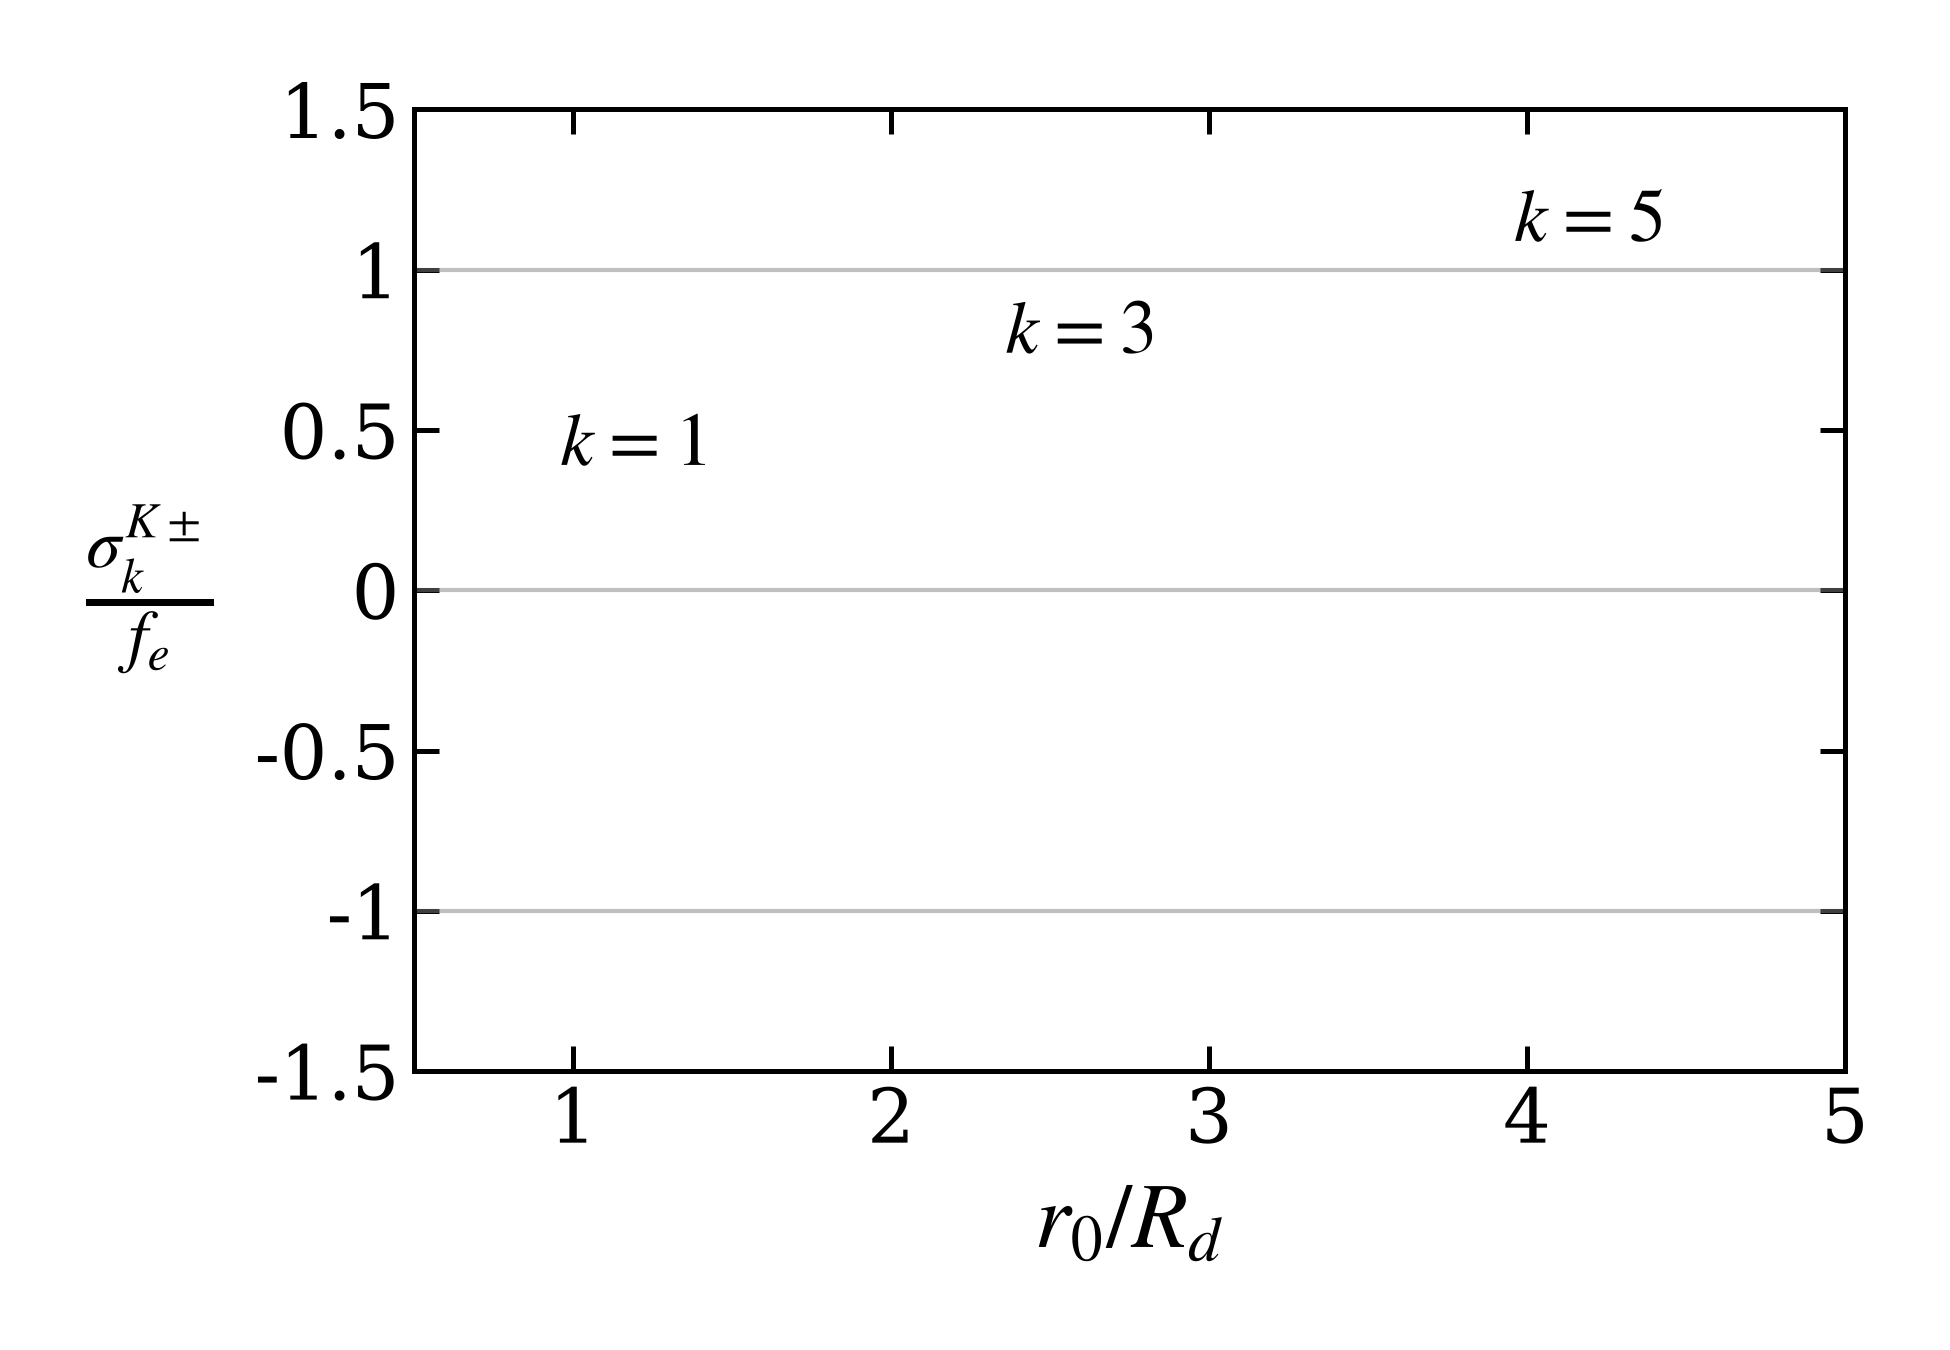
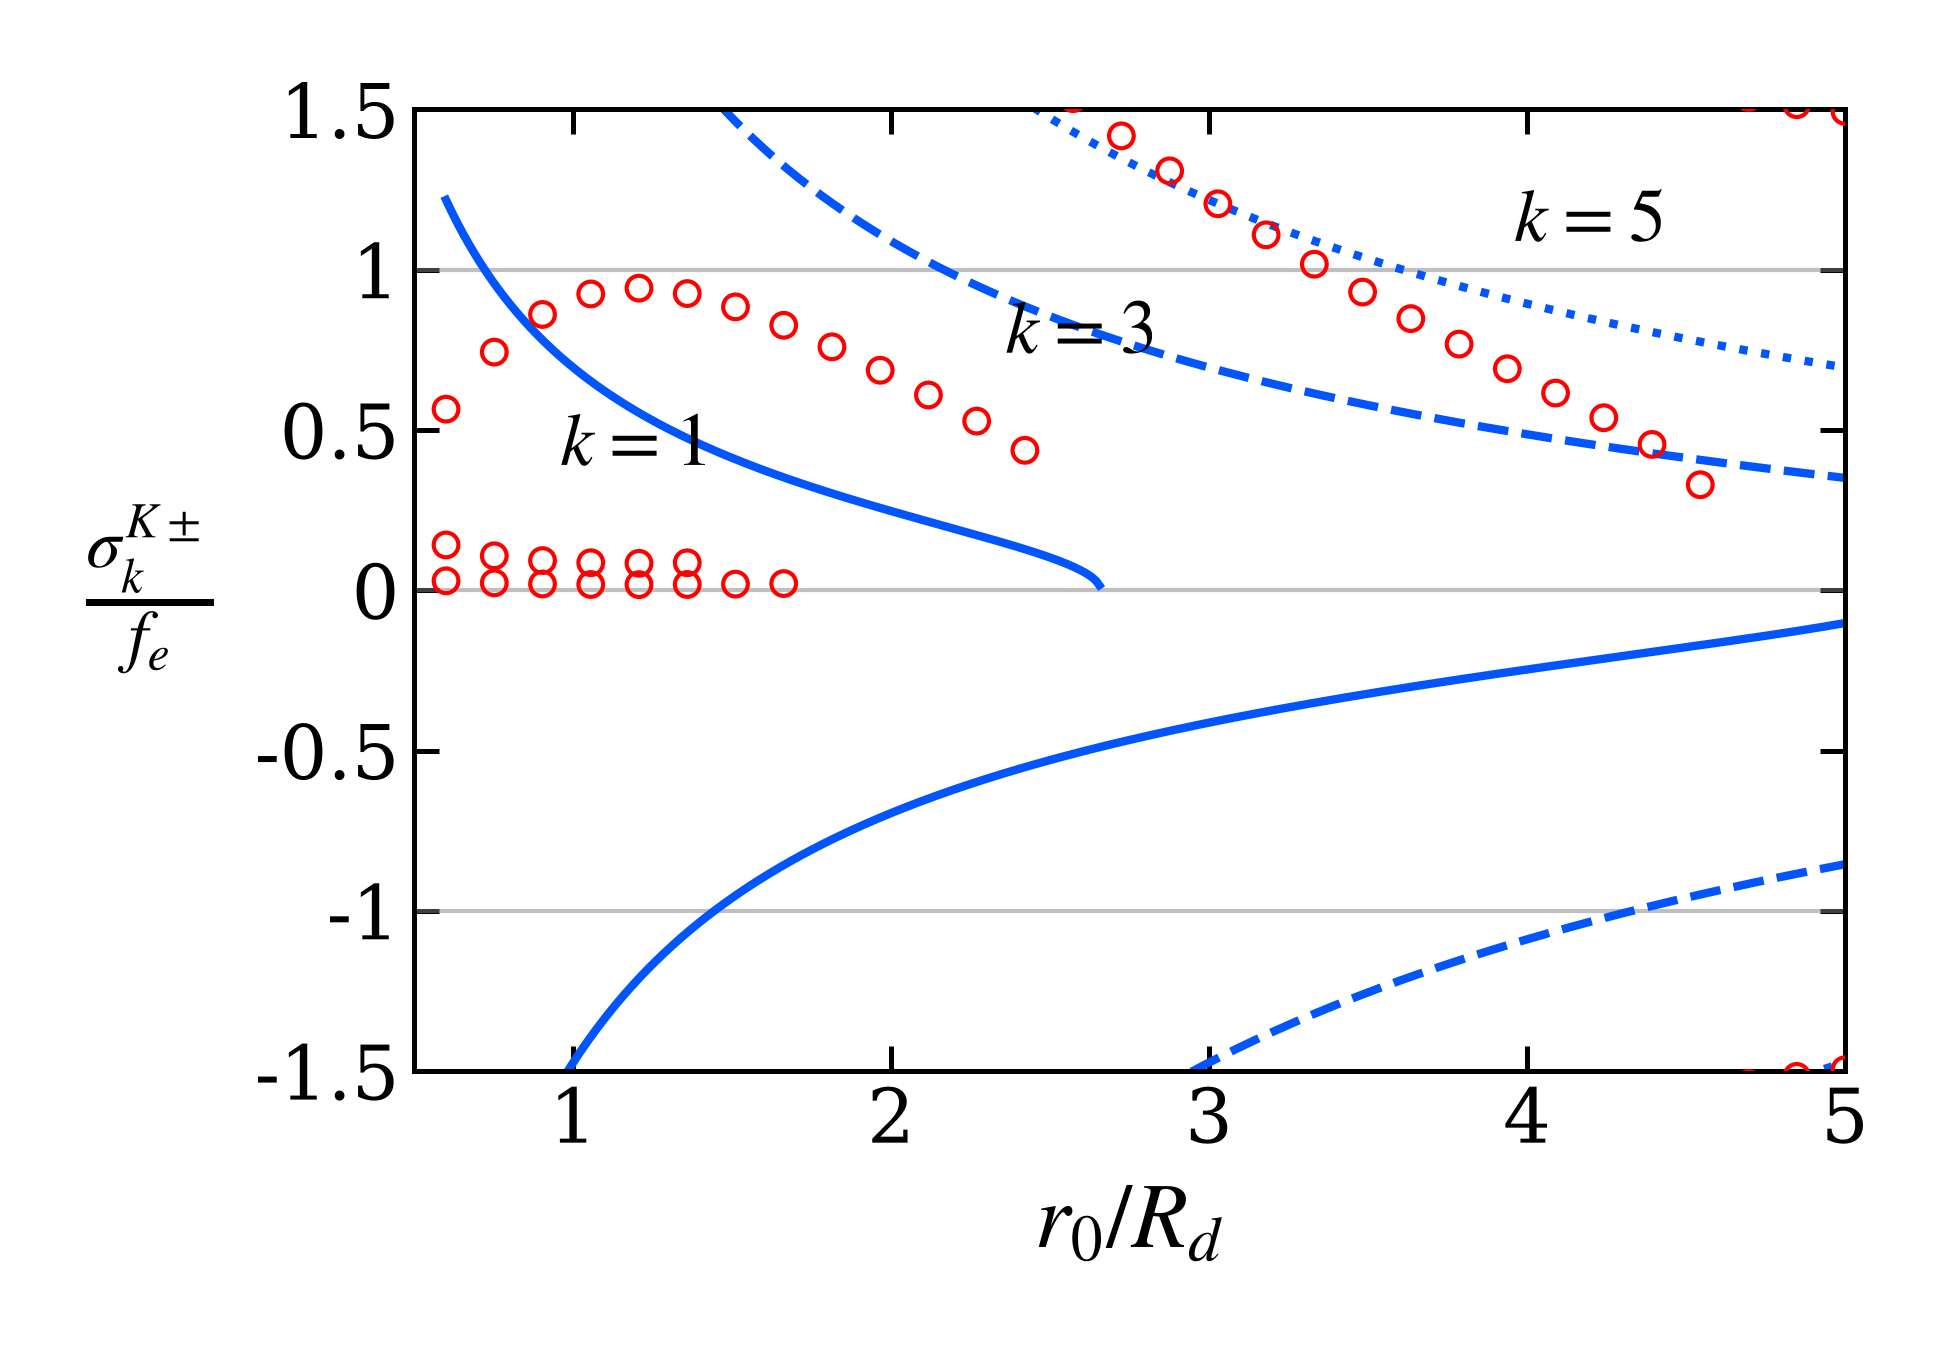
Update Kelvin mode derivation based on explicit boundary roots

diff --git a/plot_kelvin_variation_collocation.py b/plot_kelvin_variation_collocation.py
@@ -1,0 +1,213 @@
+import numpy as np
+import matplotlib.pyplot as plt
+from scipy.linalg import det
+import warnings
+warnings.filterwarnings("ignore")
+
+# ==========================================================
+# Publication style settings
+# ==========================================================
+plt.rcParams.update({
+    "font.family": "serif",
+    "mathtext.fontset": "stix",
+    "font.size": 18,
+    "axes.linewidth": 1.2,
+    "xtick.direction": "in",
+    "ytick.direction": "in",
+    "xtick.top": True,
+    "ytick.right": True,
+    "xtick.major.size": 6,
+    "ytick.major.size": 6,
+    "xtick.major.width": 1.2,
+    "ytick.major.width": 1.2,
+})
+
+# ── 0.  Physical parameters ─────────────────────────────────────────────────
+MU0   = 4 * np.pi * 1e-7
+Omega = 0.5e-4        # rad/s
+H0    = 500.0         # m
+g     = 9.81          # m/s^2
+rho0  = 1000.0        # kg/m^3
+
+# Let's set some non-zero values explicitly
+B0    = 0.0005        # T
+C     = 1.5e9         # m^3/s^2
+
+f        = 2.0 * Omega
+c0sq     = g * H0
+c0       = np.sqrt(c0sq)
+Rd       = c0 / f
+
+VA2      = B0**2 / (MU0 * rho0)
+omA2     = VA2 / H0**2
+omA      = np.sqrt(omA2)
+
+hat_omA = omA / f
+hat_omA2 = hat_omA**2
+
+N_col = 32
+
+def chebyshev_lobatto(N, r_min, r_max):
+    j = np.arange(N); xi = np.cos(j * np.pi / (N - 1))
+    c = np.ones(N); c[0] = 2; c[-1] = 2
+    X = np.tile(xi, (N, 1)); dX = X - X.T
+    D = np.zeros((N, N))
+    for i in range(N):
+        for k in range(N):
+            if i != k:
+                D[i, k] = (c[i] / c[k]) / dX[i, k]
+    D -= np.diag(D.sum(axis=1))
+    sc = 2.0 / (r_max - r_min); D1 = sc * D; D2 = D1 @ D1
+    rp = 0.5*(r_min+r_max) + 0.5*(r_max-r_min)*xi
+    rp = rp[::-1]; D1 = D1[::-1,::-1]; D2 = D2[::-1,::-1]
+    return rp, D1, D2
+
+def omega_star_hat(hat_omega):
+    return hat_omega + hat_omA2 / hat_omega
+
+def build_matrix(hat_omega, m_val, hat_r_grid, D1_mat, D2_mat, gamma, hat_c0sq):
+    ws_hat = omega_star_hat(hat_omega)
+    Pv = 1.0 / hat_r_grid - ( 1+gamma) * (hat_r_grid - 1.0) / hat_c0sq
+    term1 = 4.0 * hat_omega * (ws_hat**2 - 1.0) / (ws_hat * hat_c0sq)
+    term2 = -m_val**2 / hat_r_grid**2
+    term3 = -(1+ gamma) * (2.0 * hat_r_grid - 1.0) / (hat_c0sq * hat_r_grid)
+    term4 = -m_val * ( 1+gamma) * (hat_r_grid - 1.0) / (ws_hat * hat_c0sq * hat_r_grid)
+    Qv = term1 + term2 + term3 + term4
+
+    L = D2_mat + np.diag(Pv) @ D1_mat + np.diag(Qv)
+    for idx in [0, N_col - 1]:
+        rb = hat_r_grid[idx]
+        bc_eta_coeff = -(ws_hat * (1+ gamma) * (rb - 1.0) + m_val * hat_c0sq / rb)
+        L[idx,:] = ws_hat * hat_c0sq * D1_mat[idx,:] + bc_eta_coeff * np.eye(N_col)[idx]
+    return L
+
+def find_eigenvalues(m_val, hat_r_grid, D1_mat, D2_mat, gamma, hat_c0sq, omega_range=(-3.5, 3.5), n_scan=800):
+    scan = np.linspace(*omega_range, n_scan)
+    scan = scan[np.abs(scan) > 0.01]
+    ld = []
+    for w in scan:
+        try:
+            d = np.log(np.abs(det(build_matrix(w, m_val, hat_r_grid, D1_mat, D2_mat, gamma, hat_c0sq))) + 1e-300)
+        except Exception:
+            d = np.nan
+        ld.append(d)
+
+    roots = []
+    for k in range(1, len(ld) - 1):
+        if np.isfinite(ld[k]) and ld[k] < ld[k-1] and ld[k] < ld[k+1]:
+            w = complex(scan[k])
+            for _ in range(80):
+                dw = 1e-6*abs(w) + 1e-10
+                try:
+                    f0 = det(build_matrix(w, m_val, hat_r_grid, D1_mat, D2_mat, gamma, hat_c0sq))
+                    fp = ((det(build_matrix(w+dw, m_val, hat_r_grid, D1_mat, D2_mat, gamma, hat_c0sq))
+                           - det(build_matrix(w-dw, m_val, hat_r_grid, D1_mat, D2_mat, gamma, hat_c0sq)))
+                          / (2*dw))
+                    if abs(fp) < 1e-300: break
+                    step = -f0 / fp; w += step
+                    if abs(step) < 1e-10 * (abs(w) + 1): break
+                except Exception:
+                    break
+            try:
+                residual = abs(det(build_matrix(w, m_val, hat_r_grid, D1_mat, D2_mat, gamma, hat_c0sq)))
+                valid_ld = [x for x in ld if np.isfinite(x)]
+                ld_max = max(valid_ld) if len(valid_ld) > 0 else 0
+                if residual < 1e-3 * np.exp(ld_max):
+                    dup = any(abs(w - wr) < 5e-3 for wr in roots)
+                    if not dup:
+                        roots.append(w.real)
+            except Exception:
+                pass
+    return np.array(sorted(roots))
+
+x_vals = np.linspace(0.6, 5.0, 30)
+k_modes = [1, 3, 5]
+
+num_in_data = {1: [], 3: [], 5: []}
+num_out_data = {1: [], 3: [], 5: []}
+
+for x in x_vals:
+    # Physical un-scaling for a given x = r0 / Rd
+    r0 = x * Rd
+    r1 = (2/3) * r0
+    r2 = (4/3) * r0
+
+    hat_r1 = r1 / r0
+    hat_r2 = r2 / r0
+    hat_c0sq = c0sq / (Omega**2 * r0**2)
+    gamma = 2.0 * C / (Omega**2 * r0**3)
+
+    hat_r_grid, D1_mat, D2_mat = chebyshev_lobatto(N_col, hat_r1, hat_r2)
+
+    for k in k_modes:
+        eigs = find_eigenvalues(k, hat_r_grid, D1_mat, D2_mat, gamma, hat_c0sq)
+
+        # WKB predictions removing the 0.5 factor from the document definitions:
+        arg_in = k**2 * hat_c0sq / hat_r1**2 - hat_omA2
+        oMK_in = -np.sqrt(arg_in) if arg_in >= 0 else np.nan
+
+        arg_out = k**2 * hat_c0sq / hat_r2**2 - hat_omA2
+        oMK_out = np.sqrt(arg_out) if arg_out >= 0 else np.nan
+
+        # Match numerical root
+        if not np.isnan(oMK_in):
+            dists = [abs(e - oMK_in) for e in eigs]
+            if dists: num_in_data[k].append(eigs[np.argmin(dists)])
+            else: num_in_data[k].append(np.nan)
+        else:
+            num_in_data[k].append(np.nan)
+
+        if not np.isnan(oMK_out):
+            dists = [abs(e - oMK_out) for e in eigs]
+            if dists: num_out_data[k].append(eigs[np.argmin(dists)])
+            else: num_out_data[k].append(np.nan)
+        else:
+            num_out_data[k].append(np.nan)
+
+# Plotting
+fig, ax = plt.subplots(figsize=(6.5, 4.5))
+for y_val in [-1, 0, 1]:
+    ax.axhline(y_val, color='gray', lw=1.0, alpha=0.5)
+
+line_styles = {1: '-', 3: '--', 5: ':'}
+color = '#0055ff'
+
+x_fine = np.linspace(0.6, 5.0, 500)
+for k in [1, 3, 5]:
+    ls = line_styles[k]
+
+    # WKB Theory lines natively using the derived un-halved formulas
+    arg_in_th = (k * 1.5 / x_fine)**2 - hat_omA**2
+    valid_in = arg_in_th >= 0
+    sigma_in = np.full_like(x_fine, np.nan)
+    sigma_in[valid_in] = -np.sqrt(arg_in_th[valid_in])
+
+    arg_out_th = (k * 0.75 / x_fine)**2 - hat_omA**2
+    valid_out = arg_out_th >= 0
+    sigma_out = np.full_like(x_fine, np.nan)
+    sigma_out[valid_out] = np.sqrt(arg_out_th[valid_out])
+
+    ax.plot(x_fine, sigma_out, color=color, ls=ls, lw=2.0)
+    ax.plot(x_fine, sigma_in, color=color, ls=ls, lw=2.0)
+
+    # Collocation dots
+    ax.scatter(x_vals, num_out_data[k], facecolors='none', edgecolors='r', marker='o', s=35, zorder=5)
+    ax.scatter(x_vals, num_in_data[k], facecolors='none', edgecolors='r', marker='o', s=35, zorder=5)
+
+ax.text(1.2, 0.45, r'$k = 1$', fontsize=18, color='k', ha='center', va='center')
+ax.text(2.6, 0.8, r'$k = 3$', fontsize=18, color='k', ha='center', va='center')
+ax.text(4.2, 1.15, r'$k = 5$', fontsize=18, color='k', ha='center', va='center')
+
+ax.set_xlim(0.5, 5.0)
+ax.set_ylim(-1.5, 1.5)
+ax.set_xticks([1, 2, 3, 4, 5])
+ax.set_yticks([-1.5, -1.0, -0.5, 0.0, 0.5, 1.0, 1.5])
+ax.set_ylabel(r'$\frac{\sigma_k^{K\pm}}{f_e}$', rotation=0, labelpad=25, va='center', fontsize=24)
+ax.set_xlabel(r'$r_0/R_d$', fontsize=22)
+ax.set_yticklabels(['-1.5', '-1', '-0.5', '0', '0.5', '1', '1.5'])
+ax.set_xticklabels(['1', '2', '3', '4', '5'])
+
+plt.tight_layout()
+plt.savefig('kelvin_modes_variation.pdf', dpi=300)
+plt.savefig('kelvin_modes_variation.png', dpi=300)
+print("Saved Kelvin Model overlay plot.")
